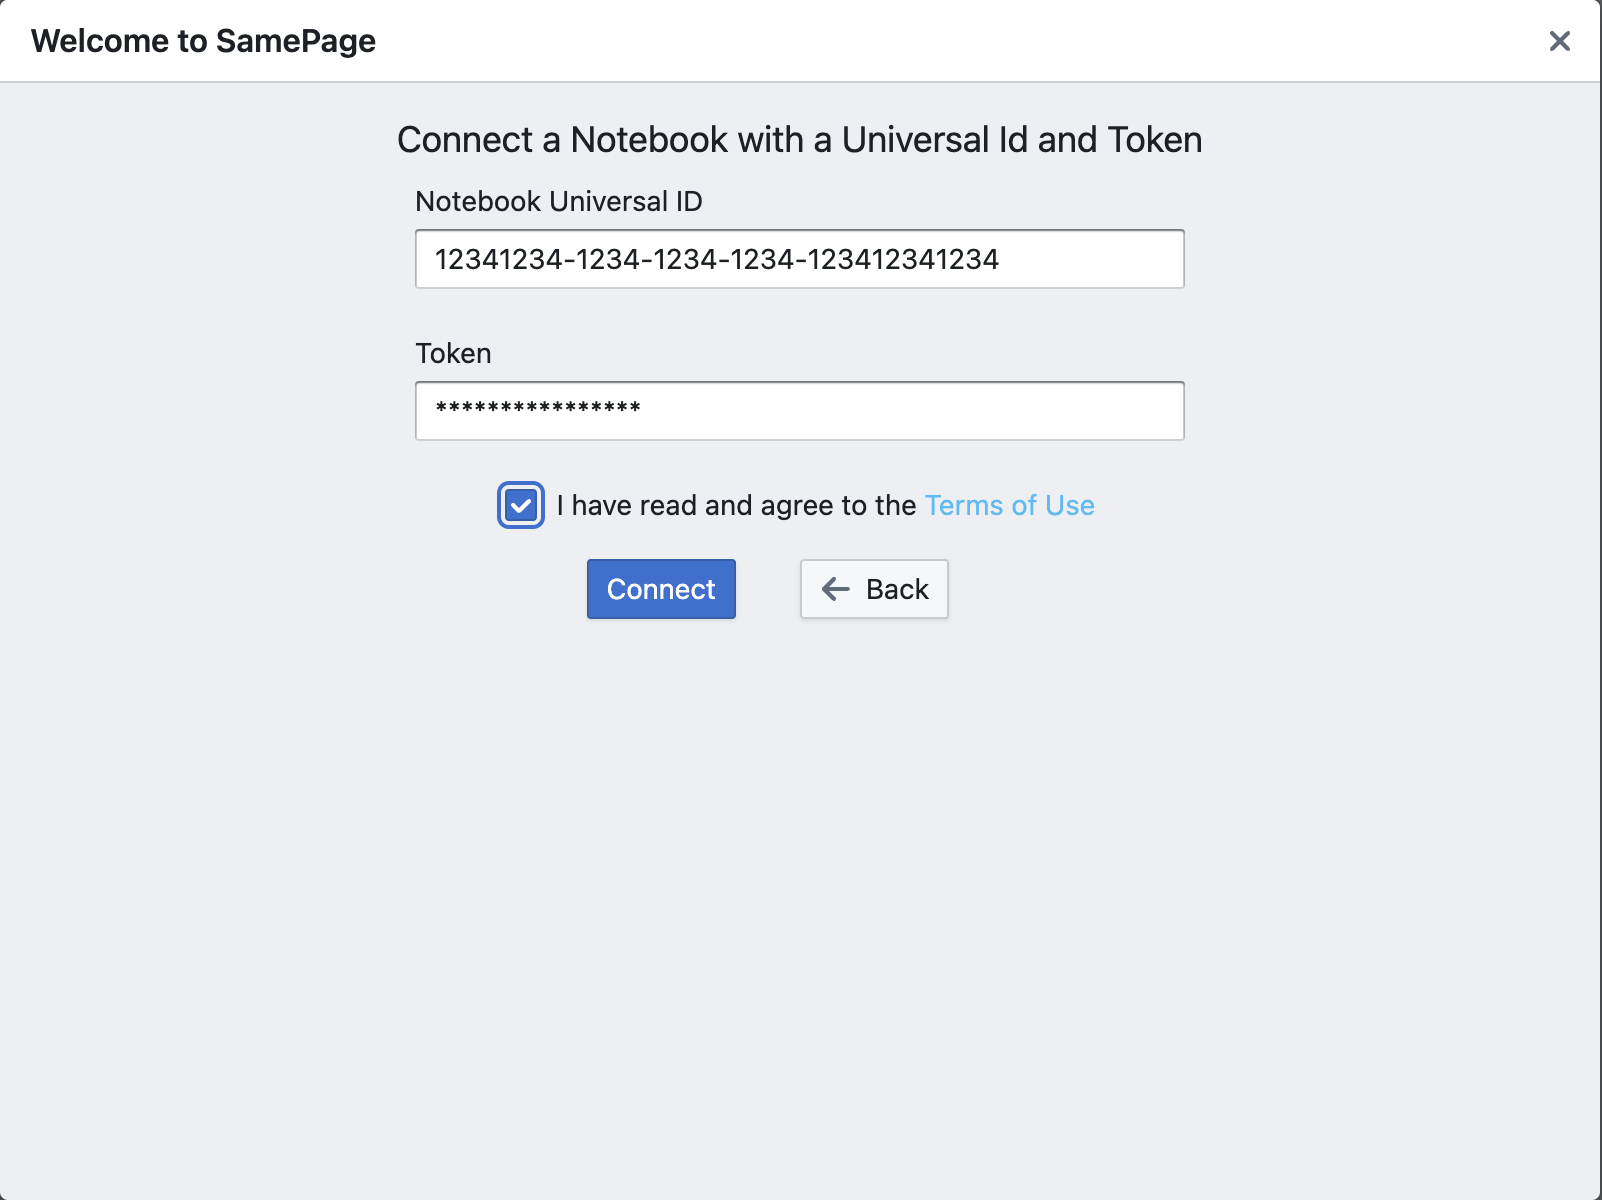
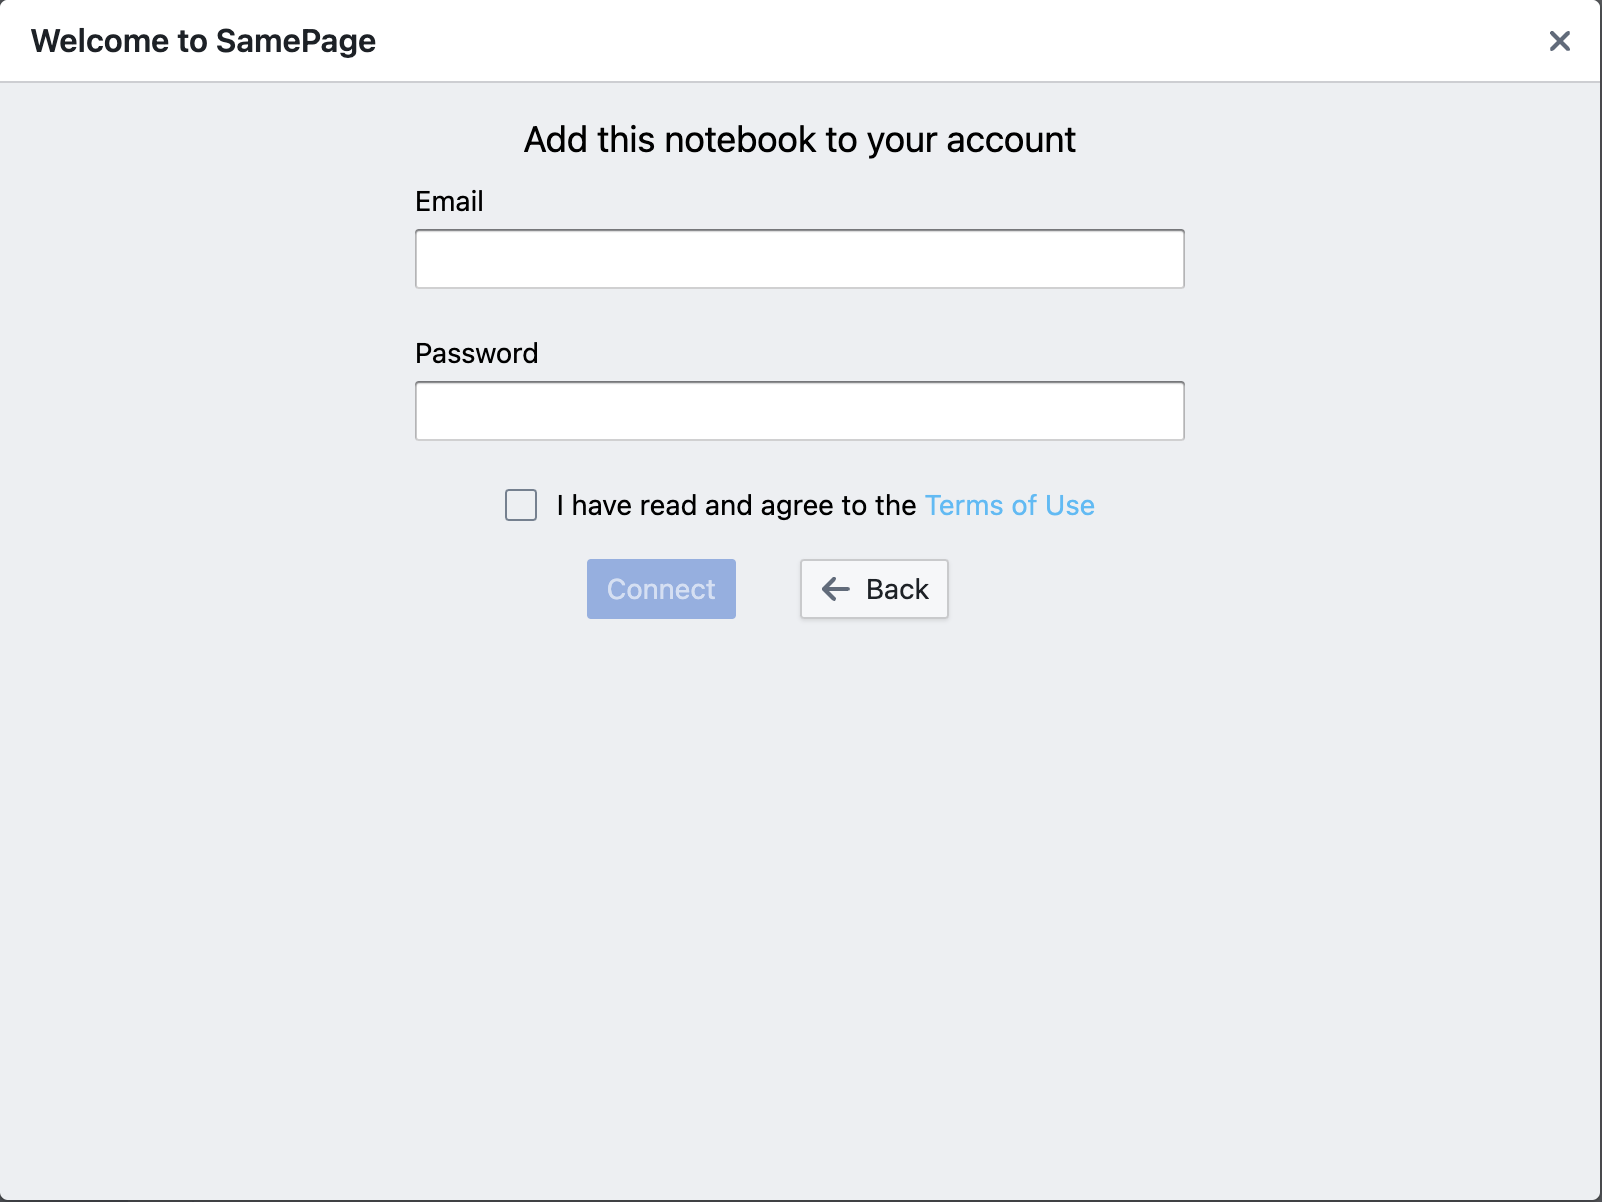
Update Onboarding docs

diff --git a/app/routes/__private/admin/invites/$code.tsx b/app/routes/__private/admin/invites/$code.tsx
@@ -7,7 +7,6 @@ import TextInput from "@dvargas92495/app/components/TextInput";
 import { ActionFunction, LoaderFunction, redirect } from "@remix-run/node";
 import { Form, useLoaderData, Link } from "@remix-run/react";
 import getInviteInfo from "~/data/getInviteInfo.server";
-import updateInviteInfo from "~/data/updateInviteInfo.server";
 import deleteInvite from "~/data/deleteInvite.server";
 
 const SingleInvitePage = () => {
@@ -58,12 +57,6 @@ export const action: ActionFunction = (args) => {
         code: params["code"] || "",
         requestId,
       }).then(() => redirect("/admin/invites")),
-    PUT: ({ params, context: { requestId }, data }) =>
-      updateInviteInfo({
-        code: params["code"] || "",
-        requestId,
-        email: data["email"][0] || "",
-      }),
   });
 };
 

diff --git a/package/components/Onboarding.tsx b/package/components/Onboarding.tsx
@@ -163,7 +163,7 @@ const CreateNotebookPage = ({
           name={"email"}
         />
       </Label>
-      <Label>
+      <Label className={"w-1/2"}>
         Password
         <InputGroup
           value={password}

diff --git a/docs/getting_started/install.md b/docs/getting_started/install.md
@@ -29,7 +29,7 @@ Click on the button on the right to get started with connecting your first noteb
 
 ![](/images/docs/getting-started/onboarding-create.png)
 
-Enter the invite code you were sent by the SamePage team. If you do not yet have an invite code, please reach out to the team by emailing [support@samepage.network](mailto:support@samepage.network) to secure your own. Make sure to also check the flag ensuring you agree to SamePage's terms and conditions:
+Create your SamePage account by entering your email address and adding a password. This will automatically link the current application you're using as a Notebook tied to your account. Make sure to also check the flag ensuring you agree to SamePage's terms and conditions:
 
 ![](/images/docs/getting-started/onboarding-invite.png)
 
@@ -48,9 +48,9 @@ Notebooks are the main concept integral to SamePage. A Notebook is composed of t
 
 When you onboard a new Notebook onto SamePage, you are issued a new **Univeral Id** and a new **Token**. The Universal Id belongs to the Notebook you are using and identifies the notebook to the rest of the network. The Token belongs to you as a user and is granting your notebook access to use features on the network. **This token is considered sensitive data and should be kept safe.** If unauthorized parties were to gain access to it, they would be able to manipulate data in your Notebook.
 
-To onboard a new Notebook, the same onboarding modal will appear upon installing the extension to the new Notebook. This time, you will want to click the left button to `Use Existing Notebook`.
+To onboard a new Notebook, the same onboarding modal will appear upon installing the extension to the new Notebook. This time, you will want to click the left button to `Add Another Notebook`.
 
-You will be prompted to enter the Notebook Universal Id and Token of a previous notebook you've added so that we can identify you as a user and know that you are authorized to connect a new Notebook.
+You will be prompted to enter your email and password so that we can identify you as a user and know that you are authorized to connect a new Notebook.
 
 ![](/images/docs/getting-started/onboarding-connect.png)
 
